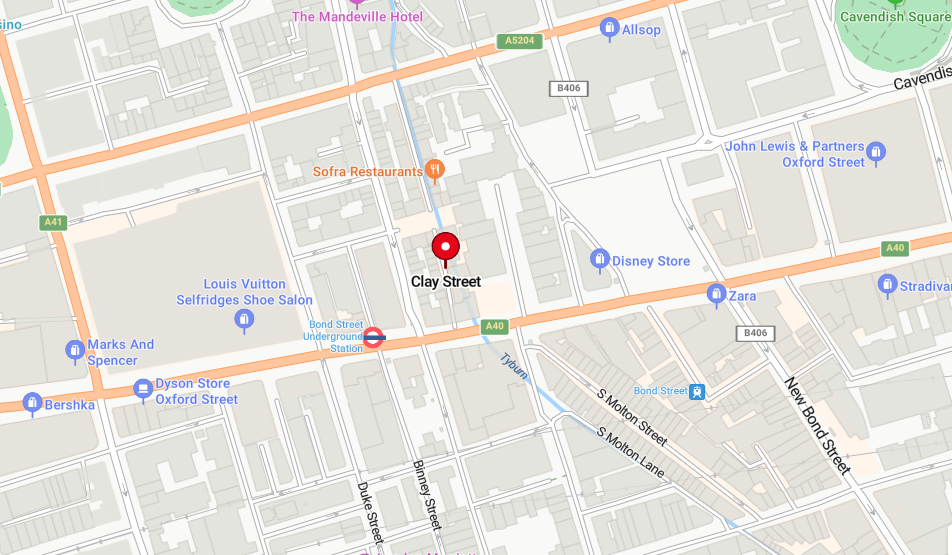
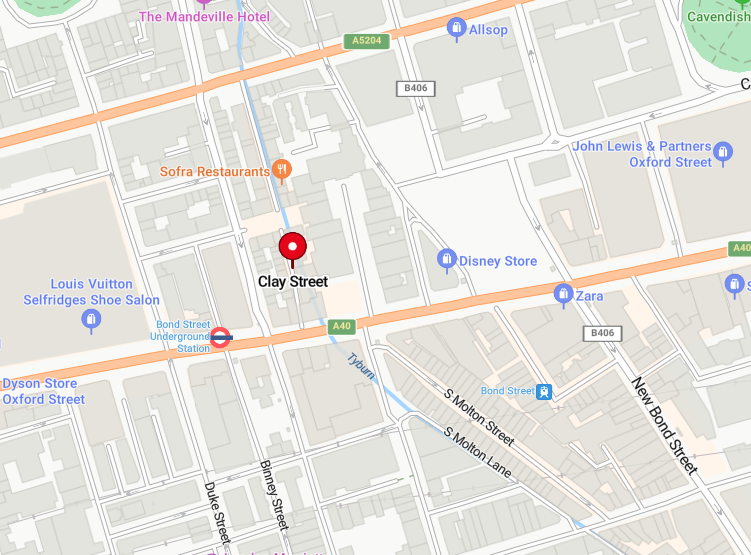
wip

diff --git a/css/aboutStyles.css b/css/aboutStyles.css
@@ -13,7 +13,7 @@
 }
 
 .map-image img {
-  width: 100%;
+  width: 90%;
   height: auto;
   border-radius: 8px;
   margin:20px;
